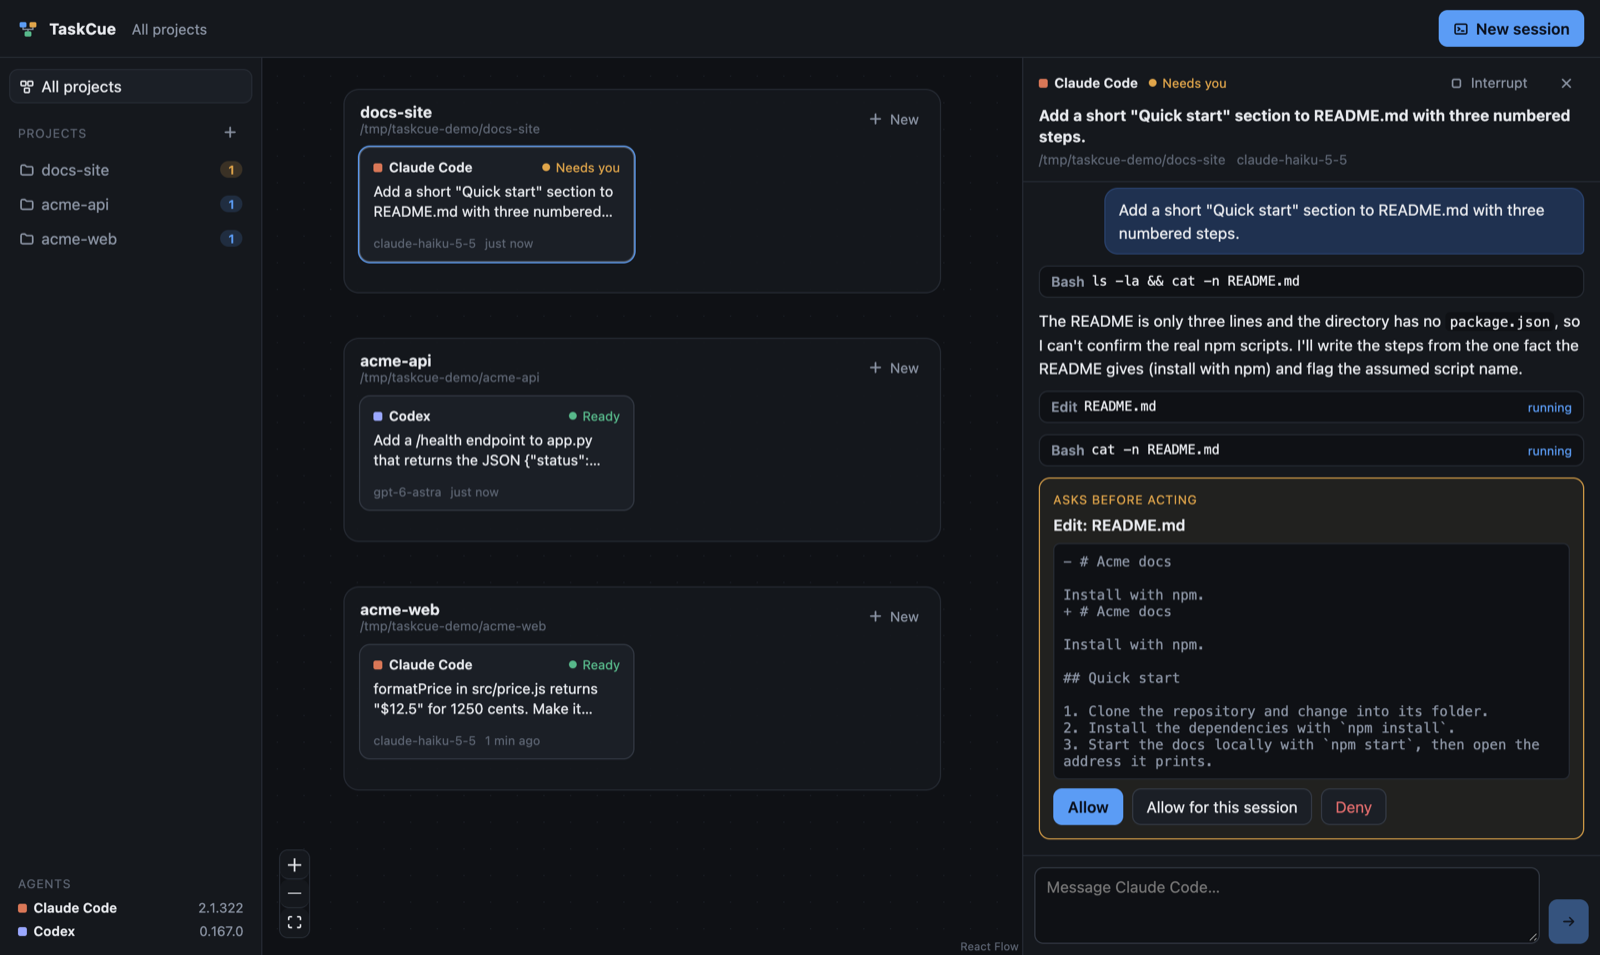
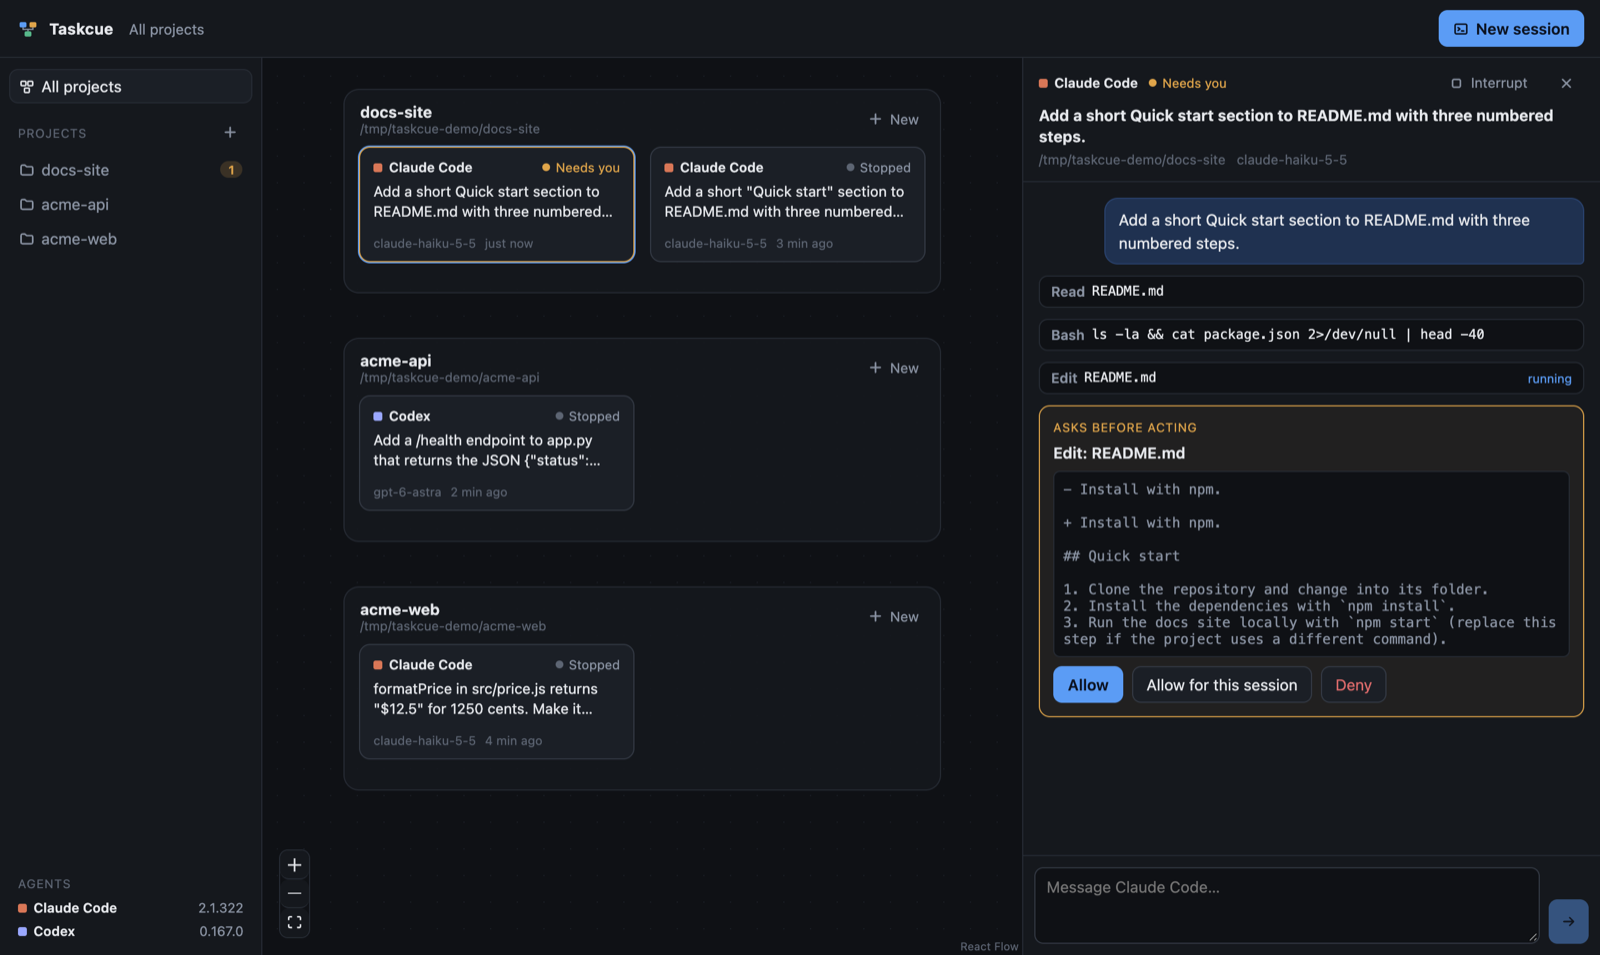
Spell it Taskcue
The open-source canvas's name is spelled Taskcue: the README, the top
bar, the docs and the screenshots.

diff --git a/server/agents/claude/index.ts b/server/agents/claude/index.ts
@@ -1,6 +1,6 @@
 // Claude Code, driven through the installed `claude` binary's own stream-json channel: the same
 // binary, login, settings, CLAUDE.md memory, skills, hooks and MCP servers as a terminal session.
-// TaskCue never modifies the binary, never reads its credentials, and never uses the Agent SDK.
+// Taskcue never modifies the binary, never reads its credentials, and never uses the Agent SDK.
 //
 // Protocol (Claude Code 2.1.x, captured in test/fixtures/claude-stream.jsonl):
 //   stdin:  {type:"user", uuid, message:{role:"user", content:[…]}, …}
@@ -103,7 +103,7 @@ class ClaudeSession implements LiveSession {
     this.approvals.delete(approvalId);
     const response =
       decision === 'deny'
-        ? { behavior: 'deny', message: 'The person declined this in TaskCue.' }
+        ? { behavior: 'deny', message: 'The person declined this in Taskcue.' }
         : {
             behavior: 'allow',
             updatedInput: p.input,
@@ -169,8 +169,8 @@ class ClaudeSession implements LiveSession {
   private onControlRequest(m: any): void {
     const r = m.request ?? {};
     if (r.subtype !== 'can_use_tool') {
-      // Hook callbacks, SDK MCP servers and elicitations are host features TaskCue does not provide.
-      this.write({ type: 'control_response', response: { subtype: 'error', request_id: m.request_id, error: `TaskCue does not handle ${r.subtype}` } });
+      // Hook callbacks, SDK MCP servers and elicitations are host features Taskcue does not provide.
+      this.write({ type: 'control_response', response: { subtype: 'error', request_id: m.request_id, error: `Taskcue does not handle ${r.subtype}` } });
       return;
     }
     const suggestions = Array.isArray(r.permission_suggestions) ? r.permission_suggestions : [];

diff --git a/shared/types.ts b/shared/types.ts
@@ -1,7 +1,7 @@
 // What the server and the page share. The page never sees an agent's own wire format: each adapter
 // (server/agents/<agent>/) translates its agent's events into these types, and nothing else.
 
-/** An agent TaskCue can drive. New agents add an id here and an adapter in server/agents/. */
+/** An agent Taskcue can drive. New agents add an id here and an adapter in server/agents/. */
 export type AgentId = 'claude' | 'codex';
 
 /** How much a session may do without asking. Each adapter maps these onto its agent's own settings. */
@@ -16,7 +16,7 @@ export const PERMISSION_MODES: { id: PermissionMode; label: string; hint: string
 export interface AgentInfo {
   id: AgentId;
   name: string;
-  /** The binary TaskCue found, or null when the agent isn't installed. */
+  /** The binary Taskcue found, or null when the agent isn't installed. */
   path: string | null;
   version: string | null;
   /** Where to get it when it isn't installed. */
@@ -25,7 +25,7 @@ export interface AgentInfo {
   models: { id: string; label: string }[];
 }
 
-/** One entry in a session's conversation, already in TaskCue's own shape. */
+/** One entry in a session's conversation, already in Taskcue's own shape. */
 export type Item =
   | { id: string; kind: 'user'; text: string; at?: number }
   | { id: string; kind: 'assistant'; text: string; at?: number }
@@ -70,7 +70,7 @@ export interface SessionSummary {
   model: string | null;
   permission: PermissionMode;
   state: SessionState;
-  /** True while TaskCue runs the agent for it; false for history only. */
+  /** True while Taskcue runs the agent for it; false for history only. */
   live: boolean;
   createdAt: number;
   updatedAt: number;

diff --git a/server/agents/types.ts b/server/agents/types.ts
@@ -1,4 +1,4 @@
-// The one interface between TaskCue and an agent. Everything an agent knows about its own
+// The one interface between Taskcue and an agent. Everything an agent knows about its own
 // binary, protocol and history files lives behind it (server/agents/<agent>/); the rest of the
 // server and the page only see shared/types.ts. docs/adding-an-agent.md walks through a new one.
 
@@ -12,7 +12,7 @@ export interface StartOptions {
   resumeId?: string | null;
 }
 
-/** What an adapter's live session reports. TaskCue keeps state and fans it out to the page. */
+/** What an adapter's live session reports. Taskcue keeps state and fans it out to the page. */
 export interface SessionSink {
   /** A new or updated item. An item with an id already shown replaces it (a tool's result arriving). */
   item(item: Item): void;
@@ -24,7 +24,7 @@ export interface SessionSink {
   model(model: string): void;
   /** Busy with a turn, or done with it. */
   working(busy: boolean): void;
-  /** The agent asks before acting. TaskCue calls back `answer` with the same id. */
+  /** The agent asks before acting. Taskcue calls back `answer` with the same id. */
   approval(a: { id: string; title: string; detail: string; canAllowForSession: boolean }): void;
   /** An approval the agent withdrew or that was answered elsewhere. */
   approvalGone(id: string): void;

diff --git a/server/sessions.ts b/server/sessions.ts
@@ -1,6 +1,6 @@
-// The sessions on the board: the ones TaskCue started (kept in sessions.json), and the recent
+// The sessions on the board: the ones Taskcue started (kept in sessions.json), and the recent
 // ones each agent keeps in its own history (found, not copied). An agent's own history is the
-// record of a conversation; TaskCue only keeps what it needs to draw the board.
+// record of a conversation; Taskcue only keeps what it needs to draw the board.
 
 import { randomUUID } from 'node:crypto';
 import { existsSync } from 'node:fs';
@@ -225,7 +225,7 @@ export class Sessions extends EventEmitter {
     await live.send(text);
   }
 
-  /** Brings a conversation found in an agent's history onto TaskCue's own list, to continue it here. */
+  /** Brings a conversation found in an agent's history onto Taskcue's own list, to continue it here. */
   private adopt(id: string): void {
     const s = this.external.get(id);
     if (!s) throw new Error('No such session');

diff --git a/server/agents/codex/rpc.ts b/server/agents/codex/rpc.ts
@@ -57,7 +57,7 @@ export class CodexRpc {
 
   /** The handshake every client makes before anything else. */
   async initialize(version: string): Promise<void> {
-    await this.request('initialize', { clientInfo: { name: 'taskcue-canvas', title: 'TaskCue', version }, capabilities: null });
+    await this.request('initialize', { clientInfo: { name: 'taskcue-canvas', title: 'Taskcue', version }, capabilities: null });
     this.notify('initialized');
   }
 
@@ -81,7 +81,7 @@ export class CodexRpc {
     if (m.id !== undefined && m.method) {
       try {
         const result = await this.handlers.request?.(m.method, m.params, m.id);
-        if (result === undefined) throw new Error(`TaskCue does not handle ${m.method}`);
+        if (result === undefined) throw new Error(`Taskcue does not handle ${m.method}`);
         this.write({ id: m.id, result });
       } catch (err) {
         this.write({ id: m.id, error: { code: -32601, message: (err as Error).message } });

diff --git a/src/App.tsx b/src/App.tsx
@@ -10,8 +10,8 @@ import { apply, loadAgents, setConnected, useStore } from './store.ts';
 function NoToken() {
   return (
     <div className="gate">
-      <h1>TaskCue</h1>
-      <p>Open TaskCue from the address it printed when it started, the one that ends in <code>#token=…</code>.</p>
+      <h1>Taskcue</h1>
+      <p>Open Taskcue from the address it printed when it started, the one that ends in <code>#token=…</code>.</p>
       <p className="muted">
         The token keeps other websites and programs on this computer from driving your agents. It is in
         <code> ~/.taskcue-canvas/token</code>.
@@ -133,7 +133,7 @@ export function App() {
       <header className="topbar">
         <div className="brand">
           <img src="/icon.svg" alt="" width={22} height={22} />
-          TaskCue
+          Taskcue
         </div>
         <div className="crumb">{focused ? shortPath(focused.path) : 'All projects'}</div>
         <span className="spacer" />

diff --git a/server/agents/process.ts b/server/agents/process.ts
@@ -7,7 +7,7 @@ import { delimiter, join } from 'node:path';
 import type { Readable } from 'node:stream';
 
 /**
- * Variables a parent agent session sets for its own children. When TaskCue is started from
+ * Variables a parent agent session sets for its own children. When Taskcue is started from
  * inside a Claude Code session (a terminal tab, an editor panel, a tool call), passing them on
  * would make every session it starts believe it is a child of that one.
  */
@@ -29,7 +29,7 @@ const PARENT_SESSION_VARS = [
   'CODEX_SANDBOX_NETWORK_DISABLED',
 ];
 
-/** TaskCue's own settings, which belong to TaskCue and not to the projects its sessions work in. */
+/** Taskcue's own settings, which belong to Taskcue and not to the projects its sessions work in. */
 const OWN_VARS = ['PORT', 'NODE_ENV', 'ELECTRON_RUN_AS_NODE'];
 const OWN_PREFIX = 'TASKCUE_CANVAS_';
 

diff --git a/server/config.ts b/server/config.ts
@@ -1,4 +1,4 @@
-// TaskCue's own state: a folder of small JSON files, never shared with the agents.
+// Taskcue's own state: a folder of small JSON files, never shared with the agents.
 //   TASKCUE_CANVAS_DATA_DIR (default ~/.taskcue-canvas): settings.json, sessions.json, token
 //   TASKCUE_CANVAS_PORT (default 4880)
 
@@ -29,7 +29,7 @@ export function writeJson(name: string, value: unknown): void {
 }
 
 /**
- * The secret every API call carries. TaskCue can run agents that run shell commands, so other
+ * The secret every API call carries. Taskcue can run agents that run shell commands, so other
  * programs and web pages on this computer must not be able to drive it: the guard checks this
  * token on top of the Host, Origin and Fetch-Metadata checks (server/guard.ts).
  */

diff --git a/server/index.ts b/server/index.ts
@@ -1,4 +1,4 @@
-// TaskCue's server: the API, the event stream, and the page. No framework; Node's own http.
+// Taskcue's server: the API, the event stream, and the page. No framework; Node's own http.
 
 import { createReadStream, existsSync, statSync } from 'node:fs';
 import { createServer, type IncomingMessage, type ServerResponse } from 'node:http';
@@ -218,7 +218,7 @@ async function main(): Promise<void> {
   }
 
   server.listen(port, '127.0.0.1', () => {
-    console.log(`\n  TaskCue is running.\n\n  Open: http://127.0.0.1:${port}/#token=${token}\n\n  State: ${dataDir}\n`);
+    console.log(`\n  Taskcue is running.\n\n  Open: http://127.0.0.1:${port}/#token=${token}\n\n  State: ${dataDir}\n`);
   });
 
   void sessions.refreshExternal(addedProjects());

diff --git a/test/codex.test.ts b/test/codex.test.ts
@@ -16,7 +16,7 @@ const out = lines.filter((e) => e.dir === 'out').map((e) => e.msg);
 const CWD = '/tmp/ay-cap-codex';
 
 describe('codexItem', () => {
-  it('turns each completed item into TaskCue’s own', () => {
+  it('turns each completed item into Taskcue’s own', () => {
     const items = out.filter((m) => m.method === 'item/completed').map((m) => codexItem(m.params.item, CWD)).filter(Boolean) as Item[];
     expect(items.map((i) => i.kind)).toEqual(['user', 'assistant', 'tool', 'tool', 'assistant']);
     expect(items[2]).toMatchObject({ name: 'Edit', summary: 'hello.txt', status: 'done' });

diff --git a/server/agents/index.ts b/server/agents/index.ts
@@ -3,7 +3,7 @@ import { claude } from './claude/index.ts';
 import { codex } from './codex/index.ts';
 import type { AgentAdapter } from './types.ts';
 
-/** Every agent TaskCue can drive. A new agent is one more adapter here (docs/adding-an-agent.md). */
+/** Every agent Taskcue can drive. A new agent is one more adapter here (docs/adding-an-agent.md). */
 export const adapters: Record<AgentId, AgentAdapter> = { claude, codex };
 
 export function adapter(id: string): AgentAdapter {

diff --git a/server/agents/codex/index.ts b/server/agents/codex/index.ts
@@ -1,6 +1,6 @@
 // OpenAI's Codex, driven through `codex app-server` (JSON-RPC over stdio): the same binary,
 // ChatGPT or API-key sign-in, config.toml, AGENTS.md and MCP servers as the Codex CLI.
-// TaskCue never reads Codex's credentials.
+// Taskcue never reads Codex's credentials.
 //
 // Protocol (codex-cli 0.167, captured in test/fixtures/codex-app-server.jsonl):
 //   initialize → initialized → thread/start | thread/resume → turn/start (turn/steer while one runs)
